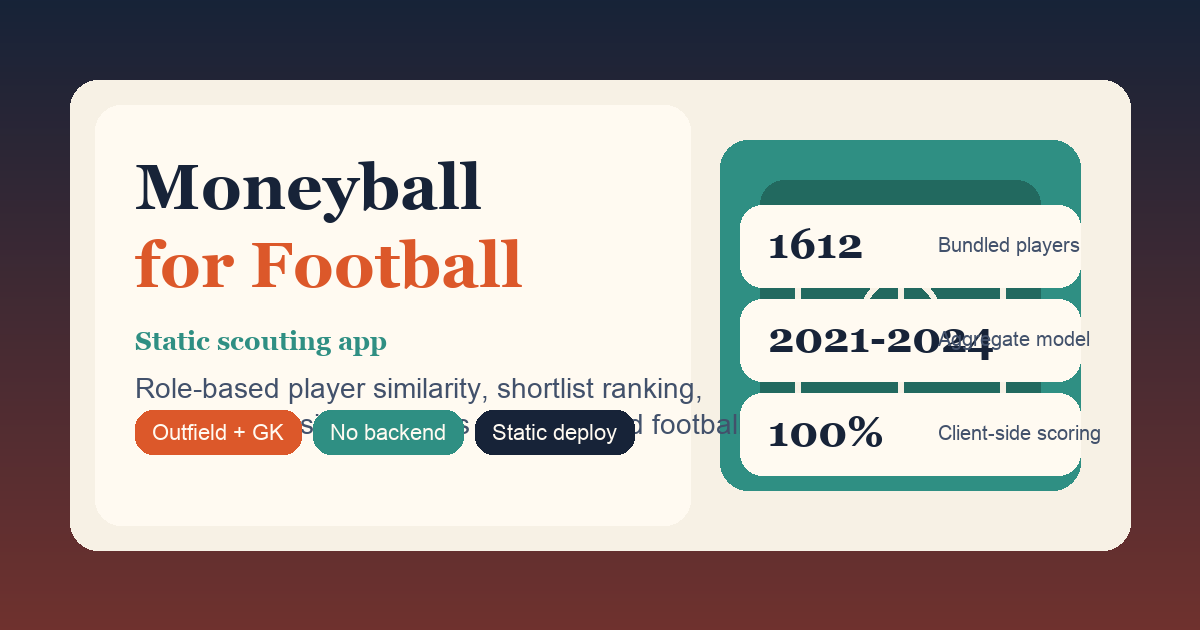
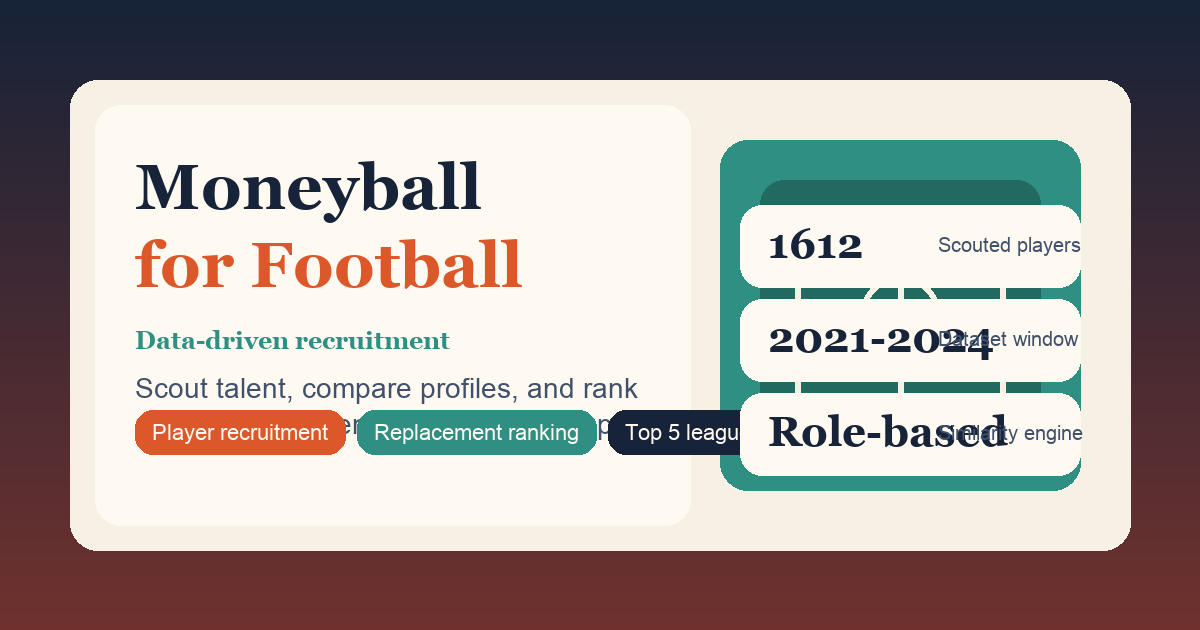
Refine product copy

diff --git a/index.html b/index.html
@@ -8,12 +8,12 @@
     <meta name="viewport" content="width=device-width, initial-scale=1.0" />
     <meta
       name="description"
-      content="Frontend-only football scouting app for ranking player replacements with static data, browser-side similarity scoring, and shortlist visualization."
+      content="Data-driven football recruitment platform for scouting players, ranking replacements, and comparing talent across the top European leagues."
     />
     <link rel="canonical" href="https://moneyball-for-football.seederworks.space/" />
     <meta
       name="keywords"
-      content="football scouting, soccer analytics, player recruitment, moneyball, replacement finder"
+      content="football scouting, soccer analytics, player recruitment, moneyball, talent identification, replacement finder"
     />
     <meta name="theme-color" content="#b8441d" />
     <meta property="og:type" content="website" />
@@ -21,7 +21,7 @@
     <meta property="og:url" content="https://moneyball-for-football.seederworks.space/" />
     <meta
       property="og:description"
-      content="Static football scouting app for finding player replacements using browser-side analytics."
+      content="Data-driven football recruitment platform for scouting players, ranking replacements, and comparing talent across the top European leagues."
     />
     <meta property="og:image" content="/social-preview.png" />
     <meta property="og:image:alt" content="Moneyball for Football scouting dashboard preview" />
@@ -30,7 +30,7 @@
     <meta name="twitter:title" content="Moneyball for Football" />
     <meta
       name="twitter:description"
-      content="Static football scouting app for finding player replacements using browser-side analytics."
+      content="Data-driven football recruitment platform for scouting players, ranking replacements, and comparing talent across the top European leagues."
     />
     <meta name="twitter:image" content="/social-preview.png" />
     <title>Moneyball for Football</title>

diff --git a/src/App.tsx b/src/App.tsx
@@ -194,12 +194,11 @@ function App() {
     <main className="app-shell">
       <section className="hero-panel">
         <div className="hero-copy">
-          <p className="eyebrow">Frontend-only scouting app</p>
+          <p className="eyebrow">Data-driven football recruitment</p>
           <h1>Moneyball for Football</h1>
           <p className="hero-text">
-            A static React app built from the notebook outputs in this repo. It
-            bundles curated player data, computes similarity in-browser, and
-            helps you shortlist replacements without a backend.
+            Scout talent, compare player profiles, and rank replacement options
+            across the top European leagues using a unified performance model.
           </p>
         </div>
 
@@ -408,7 +407,7 @@ function App() {
                   <ul className="diagnostic-list">
                     <li>{analysis.removedPlayers} players removed by filters</li>
                     <li>{activePreset.metrics.length} metrics used for similarity</li>
-                    <li>Data is bundled and evaluated fully client-side</li>
+                    <li>Role-specific model tuned to the active scouting profile</li>
                   </ul>
                 </div>
               </section>
